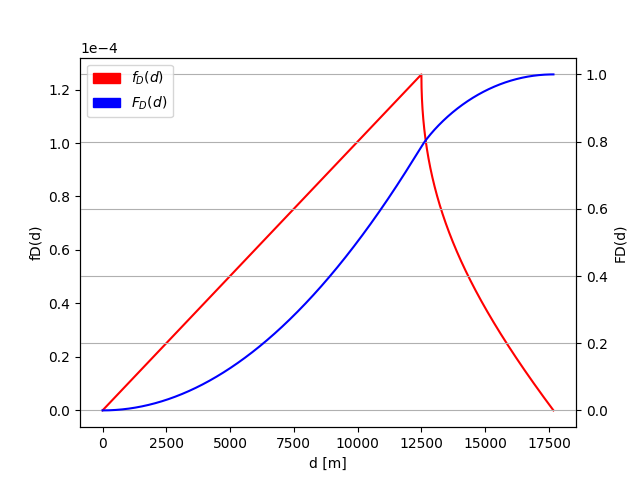
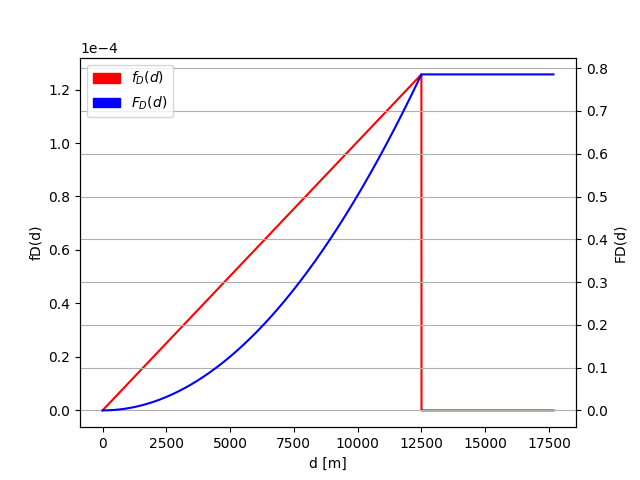
distributions script

diff --git a/scripts/distance_serviceTime_distributions.py b/scripts/distance_serviceTime_distributions.py
@@ -12,9 +12,9 @@ T = 0.000000001
 def fd(d):
     if d >= 0 and d <= M/2:
         return k*2*np.pi*d
-    elif d > M/2 and d <= M/(2**(1/2)):
+    #elif d > M/2 and d <= M/(2**(1/2)):
         #return k*(2*np.pi*d - 8*d*np.arccos(M/(2*(2**(1/2))*d)))
-        return k*4*d*(np.pi/2 - 2*np.arccos(M/2/d))
+        #return k*4*d*(np.pi/2 - 2*np.arccos(M/2/d))
     else:
         return 0
 
@@ -60,20 +60,20 @@ plt.savefig(fname="plots/plot_distance_distribution")
 plt.figure()
 
 def fs(s):
-    #if s >= 0 and s <= (T * M ) / 2:
-    if s >= 0 and s <= (T * M**2 ) / 4:
-        #return 2*np.pi*s / ( T **2 )
-        return np.pi / ( T * M**2 )
+    if s >= 0 and s <= (T * M ) / 2:
+    #if s >= 0 and s <= (T * M**2 ) / 4:
+        return 2*np.pi*s / ( T **2 )
+        #return np.pi / ( T * M**2 )
     #elif s > (T * M ) / 2 and s <= (T * M * (2**0.5) ) / 2:
-    elif s >= (T * M**2 ) / 4 and s <= (T * M**2) / 2:
+    #elif s >= (T * M**2 ) / 4 and s <= (T * M**2) / 2:
         #return (2*np.pi*s / (T**2)) - (8 * s/ (T **2)) * np.arccos((M*T*(2**0.5))/(2*s))
-        return (np.pi / (T * M**2)) - (4 / (T * M**2)) * np.arccos(M/2 * ((T / s)**0.5))
+        #return (np.pi / (T * M**2)) - (4 / (T * M**2)) * np.arccos(M/2 * ((T / s)**0.5))
     else:
         return 0
 
 ### Distribution of Service Time
-#s = T * d
-s = T * d ** 2
+s = T * d
+#s = T * d ** 2
 f = []
 for i in s:
     f.append(fs(i))
